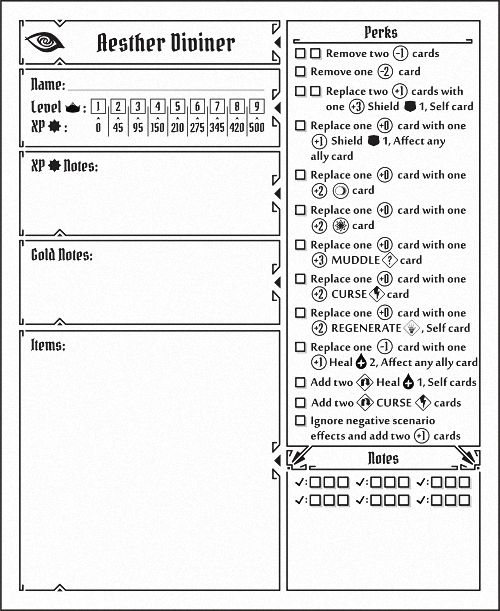
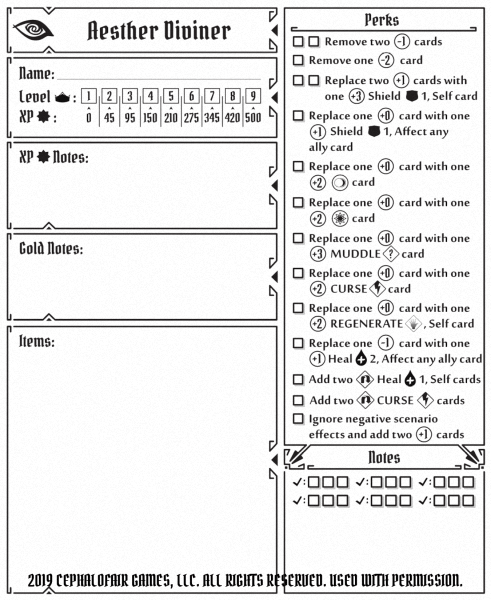
Implement New FC CP Assets with Copyright, Standardized Sizes & Asset Numbers

Changed region(s): [[0.0, 0.0, 1.0, 1.0]]

diff --git a/index.html b/index.html
@@ -6468,6 +6468,7 @@
 					<h1><i class="fa fa-plus"></i> Character Perks </h1>
 					<div class="textzone">
 						<table class="table-padded">
+							<tr><td class="td-bu">Asset Name</td></tr>
 							<tr><td>Diviner Perks</td></tr>
 						</table>
 					</div>
@@ -6716,6 +6717,7 @@
 					<h1><i class="fa fa-plus"></i> Character Perks </h1>
 					<div class="textzone">
 						<table class="table-padded">
+							<tr><td class="td-bu">Asset Name</td></tr>
 							<tr><td>Diviner Perks</td></tr>
 						</table>
 					</div>

diff --git a/data/character-perks.js b/data/character-perks.js
@@ -244,7 +244,8 @@
     "points": 30,
     "expansion": "forgotten circles",
     "image": "character-perks/forgotten-circles/fc-diviner-perks.png",
-    "xws": "divinerperks"
+    "xws": "divinerperks",
+    "assetno": "###"
   },
   {
     "name": "banner spear perks",
